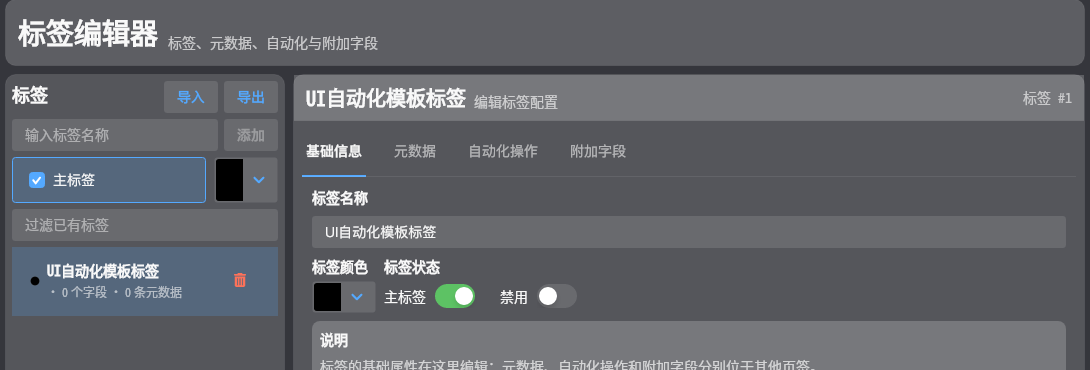
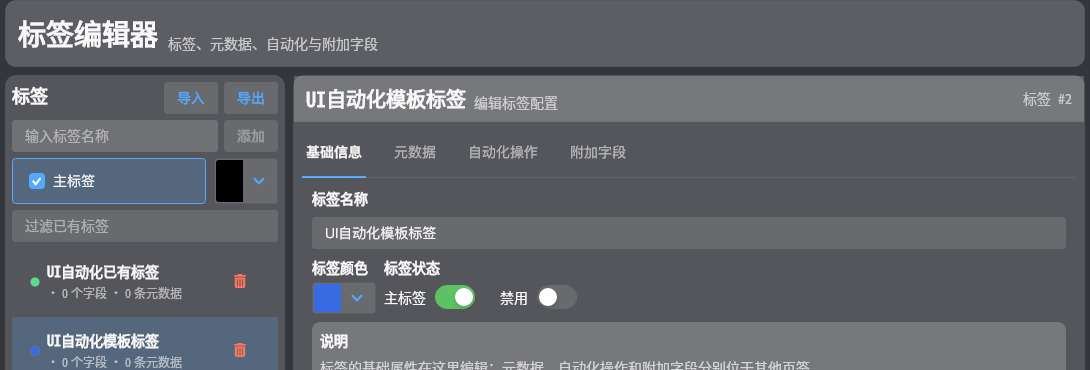
feat: 优化标签新建与保存关闭
标签编辑器在保持默认黑色时为新标签生成可辨识的随机颜色，创建成功后按标签 ID 自动选中新标签，并在必要时清空过滤条件。

移除标签编辑器取消入口并阻止 Esc 绕过保存关闭；同步用户手册、功能清单与自动化覆盖。验证通过：Diary.AppTests 283/283，ui-smoke 报告 ui-smoke-2026-08-27T08-21-27-358Z.json。

diff --git a/Diary.App/ViewModels/Dialogs/TagEditorViewModel.cs b/Diary.App/ViewModels/Dialogs/TagEditorViewModel.cs
@@ -83,7 +83,7 @@ public partial class TagEditorViewModel : ViewModelBase, IDialogContext
             return;
         }
 
-        Cancel();
+        // 标签编辑要求显式保存后才能关闭；忽略 Esc 等宿主关闭请求。
     }
 
     public event EventHandler<object?>? RequestClose;
@@ -124,13 +124,6 @@ public partial class TagEditorViewModel : ViewModelBase, IDialogContext
         if (close)
             RequestClose?.Invoke(this, null);
         return true;
-    }
-
-    [RelayCommand]
-    private void Cancel()
-    {
-        ReloadRules();
-        RequestClose?.Invoke(this, null);
     }
 
     public void ReloadRules()
@@ -349,14 +342,17 @@ public partial class TagEditorViewModel : ViewModelBase, IDialogContext
     [RelayCommand(CanExecute = nameof(CanAddTag))]
     private void NewTag()
     {
-        _logger.LogInformation("new tag, name = {name}, primary = {primary}, color = {color}", NewTagName, NewIsPrimary, NewTagColor);
-        int rgb = HsvColorConverter.FromHsv(NewTagColor);
+        int rgb = ResolveNewTagColor(NewTagColor, Random.Shared);
+        _logger.LogInformation("new tag, name = {name}, primary = {primary}, color = {color}", NewTagName, NewIsPrimary, rgb);
         var tag = App.Instance.UseDb!.CreateWorkTag(NewTagName, NewIsPrimary, rgb);
         if (tag.Id > 0)
         {
             _changed = true;
             NewTagName = string.Empty;
-            LoadTags();
+            ResetNewTagColor();
+            if (!MatchesTagFilter(tag.Name, TagFilterText))
+                TagFilterText = string.Empty;
+            LoadTags(tag.Id);
         }
         else
         {
@@ -365,6 +361,24 @@ public partial class TagEditorViewModel : ViewModelBase, IDialogContext
     }
 
     private bool CanAddTag() => !string.IsNullOrWhiteSpace(NewTagName);
+
+    internal static int ResolveNewTagColor(HsvColor selectedColor, Random random)
+    {
+        ArgumentNullException.ThrowIfNull(random);
+        var selectedRgb = HsvColorConverter.FromHsv(selectedColor);
+        if (selectedRgb != 0)
+            return selectedRgb;
+
+        var hue = random.NextDouble() * 360;
+        var saturation = 0.58 + random.NextDouble() * 0.22;
+        var value = 0.72 + random.NextDouble() * 0.18;
+        return HsvColorConverter.FromHsv(new HsvColor(1, hue, saturation, value));
+    }
+
+    private void ResetNewTagColor()
+    {
+        NewTagColor = default;
+    }
 
     private bool ValidateExtraFieldKeys(out string? error)
     {
@@ -387,20 +401,21 @@ public partial class TagEditorViewModel : ViewModelBase, IDialogContext
         return true;
     }
 
-    private void LoadTags()
+    private void LoadTags(int? selectedTagId = null)
     {
         var all = App.Instance.UseDb?.AllWorkTags();
         if (all == null)
             return;
+        selectedTagId ??= SelectedTag?.Id;
         AllTags.Clear();
         foreach (var tag in all)
             AllTags.Add(new EditableWorkTag(tag, App.Instance.UseDb));
-        RefreshVisibleTags();
+        RefreshVisibleTags(selectedTagId);
     }
 
-    private void RefreshVisibleTags()
+    private void RefreshVisibleTags(int? selectedTagId = null)
     {
-        var selected = SelectedTag;
+        selectedTagId ??= SelectedTag?.Id;
         var filter = TagFilterText.Trim();
         VisibleTags.Clear();
         foreach (var tag in AllTags.Where(tag => MatchesTagFilter(tag.Name, filter)))
@@ -408,9 +423,10 @@ public partial class TagEditorViewModel : ViewModelBase, IDialogContext
             VisibleTags.Add(tag);
         }
 
-        SelectedTag = selected is not null && VisibleTags.Contains(selected)
-            ? selected
-            : VisibleTags.FirstOrDefault();
+        SelectedTag = selectedTagId is int id
+            ? VisibleTags.FirstOrDefault(tag => tag.Id == id)
+            : null;
+        SelectedTag ??= VisibleTags.FirstOrDefault();
     }
 
     internal static bool MatchesTagFilter(string tagName, string filter)

diff --git a/Diary.AppTests/TagEditorViewModelTests.cs b/Diary.AppTests/TagEditorViewModelTests.cs
@@ -1,7 +1,9 @@
 using System.Collections.ObjectModel;
+using Avalonia.Media;
 using Diary.App.Models;
 using Diary.App.ViewModels.Dialogs;
 using Diary.Core.Data.Base;
+using Diary.GUIBase.Converters;
 
 namespace Diary.AppTests;
 
@@ -32,6 +34,22 @@ public sealed class TagEditorViewModelTests
         CollectionAssert.AreEqual(
             new[] { "a.field", "z.field", "first.field", "middle.field" },
             fields.Select(field => field.FieldKey).ToArray());
+    }
+
+    [TestMethod]
+    public void ResolveNewTagColorRandomizesDefaultBlackAndPreservesSelectedColor()
+    {
+        var randomColor = TagEditorViewModel.ResolveNewTagColor(default, new Random(20260827));
+
+        Assert.AreNotEqual(0, randomColor);
+        var hsv = HsvColorConverter.ToHsv(randomColor);
+        Assert.IsGreaterThanOrEqualTo(0.55, hsv.S);
+        Assert.IsGreaterThanOrEqualTo(0.68, hsv.V);
+
+        var selected = new HsvColor(1, 210, 0.65, 0.8);
+        Assert.AreEqual(
+            HsvColorConverter.FromHsv(selected),
+            TagEditorViewModel.ResolveNewTagColor(selected, new Random(1)));
     }
 
     private static EditableTagExtraField CreateField(string fieldKey, int sortOrder)

diff --git a/Docs/CompletedWork.md b/Docs/CompletedWork.md
@@ -4,6 +4,11 @@
 
 本文件只记录完成结果，不作为当前待办列表。
 
+## 2026-08-27 标签新建默认色与保存关闭
+
+- [x] 标签编辑器将默认黑色作为“尚未选择颜色”的初始状态；用户未修改颜色时，新建标签使用饱和度和亮度受控的随机色，颜色值发生修改后保留最终选择。创建成功后按标签 ID 重新加载并选中新标签；当前过滤条件无法显示新标签时自动清空过滤。
+- [x] 移除底部取消按钮并忽略 `Esc` 等宿主关闭请求，只有“保存更改”能够关闭标签编辑器；标签导出选择等内部对话框仍可单独取消。App 测试 283/283 通过，`ui-smoke` 验证随机默认色、新建后选中、取消按钮移除、`Esc` 不关闭和保存关闭，并直接断言两个标签的持久化颜色均非黑色，报告为 `ui-smoke-2026-08-27T08-21-27-358Z.json`。
+
 ## 2026-08-27 模板标签候选与保存关闭
 
 - [x] 模板编辑器按当前模板标签状态动态生成候选：无标签时只列启用主标签，已有标签时只列未选择的启用次标签，停用标签始终排除；添加和移除后即时刷新候选及按钮状态。移除底部取消按钮并忽略 `Esc` 等宿主关闭请求，只有保存成功后关闭。

diff --git a/Docs/CHANGELOG.md b/Docs/CHANGELOG.md
@@ -5,6 +5,7 @@
 ## 未发布
 
 日期：2026-08-27
+- 标签编辑器新建标签时，保持默认黑色且未修改颜色会生成饱和度和亮度受控的随机色，修改颜色后保留最终选择；创建成功后自动选中新标签。移除底部取消按钮并忽略 `Esc` 等关闭请求，只有“保存更改”可以关闭。
 - 模板编辑器的“添加标签”改为与日记编辑器一致的层级候选：无标签时只显示已启用主标签，已有标签时只显示未选择的已启用次标签，停用标签始终隐藏；移除底部取消按钮并忽略 `Esc` 等关闭请求，只有保存成功后关闭。
 - Redmine 标签自动化规则增加“强制修改”标志：关闭时只填充空的 Activity/Issue，开启时覆盖已有值；历史规则和旧标签共享包默认关闭，新建规则默认开启，标签导入导出会保留该设置。
 - 修复通知中心“清空全部”因引用不匹配的 Fluent 主题资源而显示为普通黑色的问题；改用 Semi 主题危险色，与“清空已读”形成明确区分。

diff --git a/Docs/UiFeatureInventory.md b/Docs/UiFeatureInventory.md
@@ -394,11 +394,12 @@
 
 ### 9.1 标签列表和基础信息
 
-- 新增标签：名称、主标签/次标签和颜色。
+- 新增标签：名称、主标签/次标签和颜色；未主动选择颜色时自动生成可辨识的随机色，主动选择颜色后原样保留，创建成功后自动选中新标签。
 - 按名称即时过滤已有标签并浏览选择；列表显示标签名称、颜色、状态、附加字段数量和元数据数量，长名称使用省略显示，数量摘要单独换行，避免与删除操作重叠。
 - 编辑标签名称、颜色、层级和启用/停用状态。
 - 删除标签；危险操作使用明确样式和确认。
 - 主标签约束在新增、修改、模板应用和工作项编辑时统一校验。
+- 标签编辑器没有取消或关闭入口，`Esc` 不会退出；必须通过“保存更改”提交并关闭。
 
 ### 9.2 标签元数据
 

diff --git a/Docs/UiAutomationCoverage.md b/Docs/UiAutomationCoverage.md
@@ -26,7 +26,7 @@
 | 套件 | 步骤 | 功能域 |
 | --- | ---: | --- |
 | `ui-settings-full` | 9 | 引导、程序设置、数据库/迁移入口、日志导出、更新 |
-| `ui-smoke` | 断言集 | 统一耗时输入、标签、模板候选与仅保存关闭、主题、草稿保存、模板新建，以及编辑器模板应用/更新入口 |
+| `ui-smoke` | 断言集 | 统一耗时输入、标签随机默认色/新建选中/仅保存关闭、模板候选与仅保存关闭、主题、草稿保存、模板新建，以及编辑器模板应用/更新入口 |
 | `ui-core-full` | 16 | 主外壳、程序脚本快捷入口、日记、查询、统计、快捷键 |
 | `ui-extended-full` | 11 | 脚本管理、AI 上下文授权与 MCP 快照、程序设置配置复制、创建、运行、历史、日志和删除 |
 | `ui-script-editor` | 4 | 独立脚本编辑器和编译检查 |
